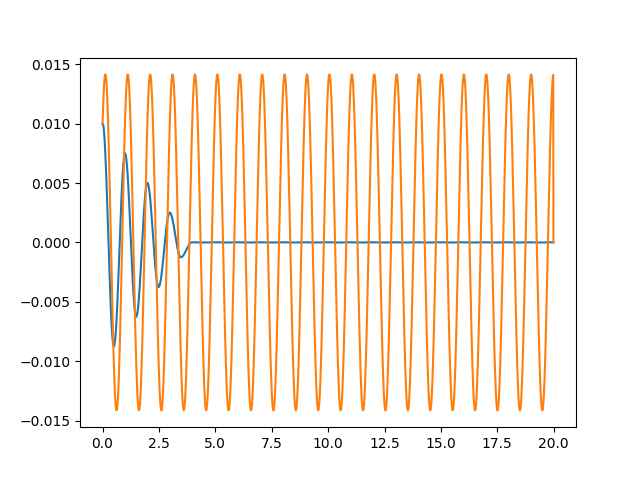
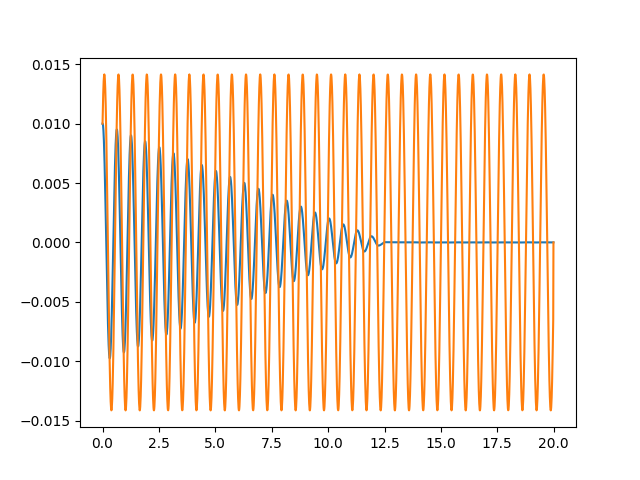
q3 paper 2

Changed region(s): [[0.1562, 0.1562, 0.875, 0.875]]

diff --git a/paper2_q34.py b/paper2_q34.py
@@ -1,0 +1,68 @@
+import numpy as np
+import matplotlib.pyplot as plt
+
+def f(x):
+    return x**3 + 2*x**2
+
+def ff(x):
+    return 3*x**2 + 4*x
+
+
+def one_sided(x, n):
+    h = np.linspace(0.1,0.0000001, n)
+    dfdx = np.zeros(len(h))
+
+    for t in range(len(h)):
+        dfdx[t] = (f(x + h[t]) - f(x))/(h[t])
+
+    error = np.zeros(len(h))
+
+    for t in range(len(h)):
+        error[t] = ff(x) - dfdx[t]
+    
+
+    plt.plot(h,dfdx)
+    plt.ylabel("df/dx")
+    plt.xlabel("h")
+    plt.title("One-sided difference")
+    plt.savefig("2q3o.png")
+    plt.cla()
+
+    plt.plot(h,error)
+    plt.ylabel("absolute error")
+    plt.xlabel("h")
+    plt.title("Error of one-sided difference")
+    plt.savefig("2q3oe.png")
+    plt.cla()
+  
+
+def symmetric_difference(x, n):
+    h = np.linspace(0.1,0.0000001, n)
+    dfdx = np.zeros(len(h))
+
+    for t in range(1,len(h)-1):
+        dfdx[t] = (f(x + h[t]) - f(x - h[t]))/(2*h[t])
+    
+    error = np.zeros(len(h))
+
+    for t in range(1,(len(h)-1)):
+        error[t] = ff(x) - dfdx[t]
+
+    plt.plot(h[1:-1], dfdx[1:-1])
+    plt.ylabel("df/dx")
+    plt.xlabel("h")
+    plt.title("Symmetric difference")
+    plt.savefig("2q3s.png")
+    plt.cla()
+
+    plt.plot(h[1:-1], error[1:-1])
+    plt.ylabel("Absolute error")
+    plt.xlabel("h")
+    plt.title("Error in symmetric difference")
+    plt.savefig("2q3se.png")
+    plt.cla()
+
+
+def complex_step(x, n)
+one_sided(3,120)
+symmetric_difference(3,120)

diff --git a/task2.py b/task2.py
@@ -2,8 +2,8 @@ import numpy as np
 import matplotlib.pyplot as plt
 
 dt = 0.01
-m = 1
-k = 40 
+m = 2
+k = 200 
 f = 0.025
 
 t = np.arange(0,20,dt)
